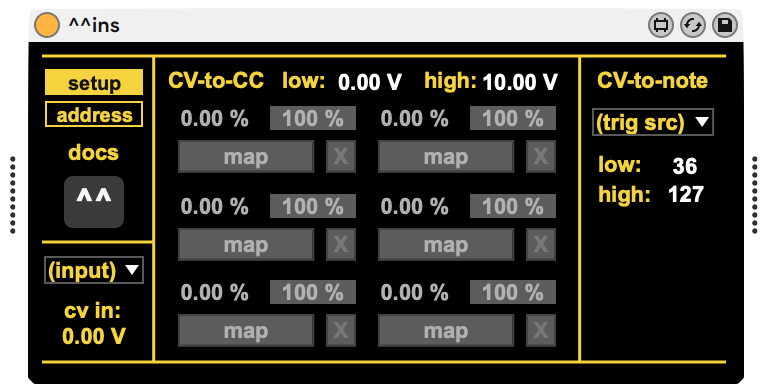
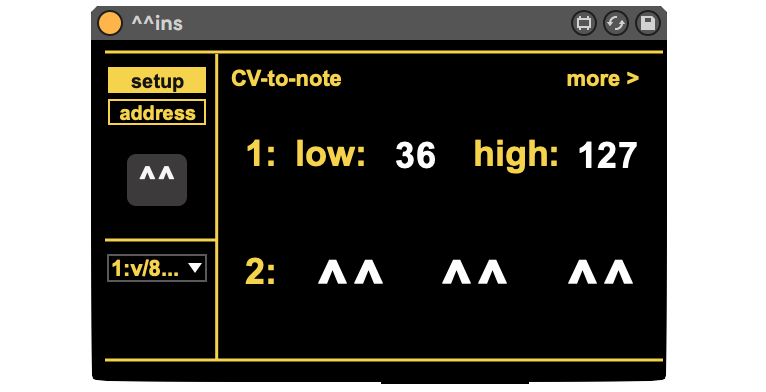
update crow m4l docs

diff --git a/crow/max-m4l.md b/crow/max-m4l.md
@@ -150,25 +150,30 @@ So, a typical two-crow setup would require:
 
 - an *input* device to translate incoming CV to useful MIDI data
 - load onto any MIDI track
-- expand the `(input)` dropdown to identify which hardware input you'd like to monitor / control Live: 1 or 2
-- *input cv*: real-time streaming monitor of voltage incoming through the input specified
+- expand the `(mode)` dropdown to choose between CV-to-note or CV-to-CC
 
 ~~
+
+*CV-to-note*: this section will translate incoming CV to MIDI pitch data
+
+Input 1 expects v/8, input 2 expects triggers.
+
+- *low*: set the desired floor for CV-to-MIDI, default is lowest note at 36
+- *high* set the desired ceiling for CV-to-MIDI, default is highest note at 127
+
+~~
+
+![](../images/m4l_ins_extended.png)
 
 *CV-to-CC*: this section will translate incoming voltage to MIDI CC data
 
 - *low*: set the desired floor for voltage-to-CC, default is 0V
 - *high*: set the desired ceiling for voltage-to-CC, default is 10V
 - *map*: map the incoming voltage to any MIDI-controllable parameter in Live
-- *%'s*: adjust the range of CC expression for each individual map channel
-
-~~
-
-*CV-to-note*: this section will translate incoming CV to MIDI pitch data
-
-- *(trig src)*: identify whether you would like the CV conversion to take place synced to Live's clock (arpeggiator) or if you'd like the conversion to take place every time a trigger is received through the *other* input of crow
-- *low*: set the desired floor for CV-to-MIDI, default is lowest note at 36
-- *high* set the desired ceiling for CV-to-MIDI, default is highest note at 127
+- *d*: depth of cv-to-cc
+- *o*: offset the scaling of received cv values
+- *s*: slew the cv-to-cc conversion, to soften clickiness/steppiness when mapping to audio parameters (like panning, filter cutoff, gain, etc)
+- *> more*: open an additional 6 channels of mapping
 
 ---
 
